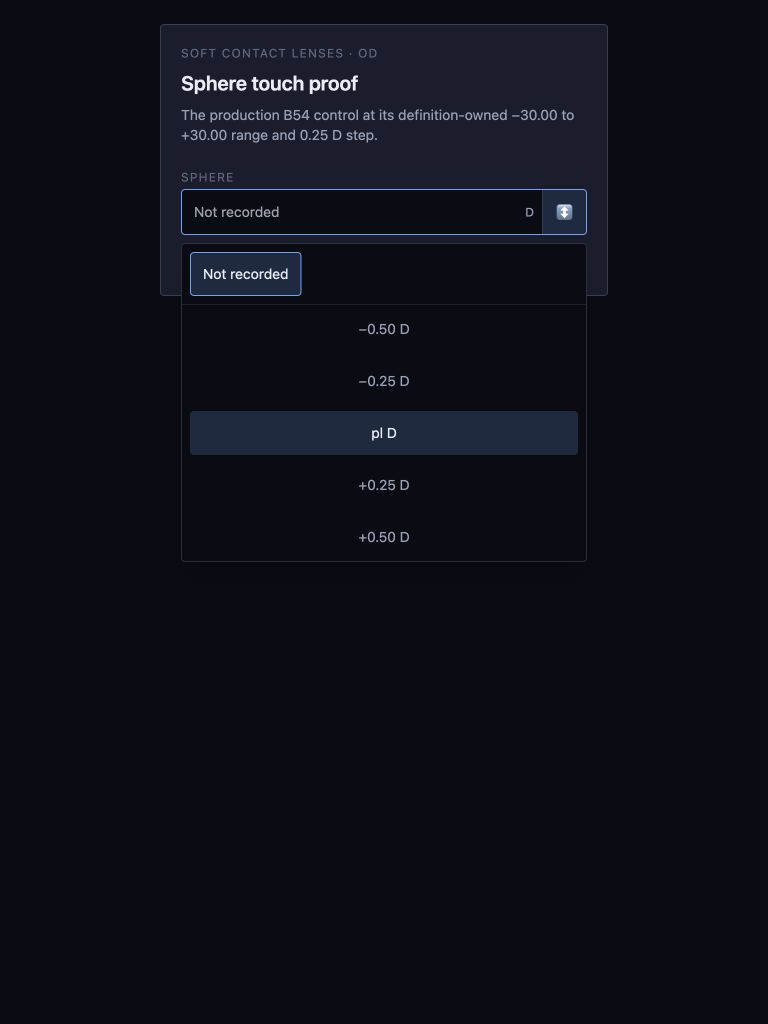
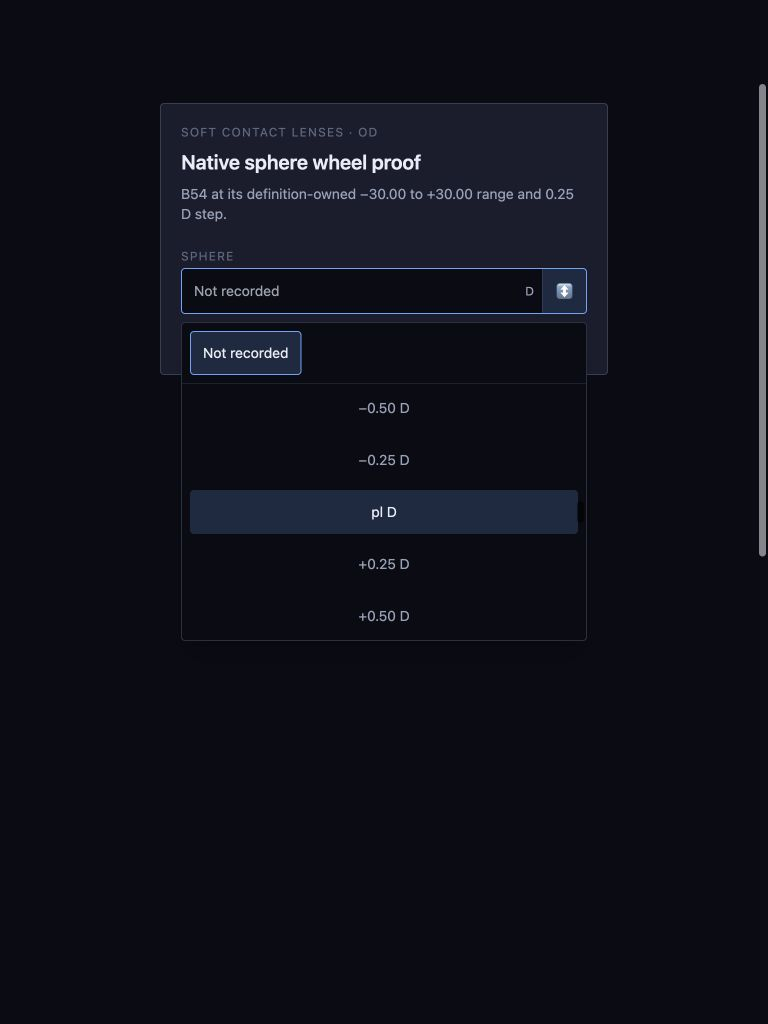
Use native OdosWheel scroll snap

Changed region(s): [[0.1875, 0.0, 0.8125, 0.5625], [0.9688, 0.0625, 1.0, 0.5625], [0.4688, 0.5938, 0.5312, 0.625]]

diff --git a/ui/src/components/inputs/OdosWheel.tsx b/ui/src/components/inputs/OdosWheel.tsx
@@ -21,14 +21,7 @@ export interface OdosWheelProps {
   disabled?: boolean;
 }
 
-interface DragState {
-  pointerId: number;
-  startY: number;
-  previousY: number;
-  previousTime: number;
-  velocity: number;
-  moved: boolean;
-}
+const SCROLL_SETTLE_DELAY_MS = 150;
 
 export function OdosWheel({
   value,
@@ -57,8 +50,7 @@ export function OdosWheel({
   const inputRef = useRef<HTMLInputElement>(null);
   const listRef = useRef<HTMLDivElement>(null);
   const optionRefs = useRef<Array<HTMLButtonElement | null>>([]);
-  const drag = useRef<DragState>();
-  const suppressClick = useRef(false);
+  const openingScrollTopRef = useRef<number>();
   const listboxId = useId();
   editingRef.current = editing;
   formatRef.current = format;
@@ -71,6 +63,7 @@ export function OdosWheel({
     if (!open || centerIndex < 0) return;
     const frame = requestAnimationFrame(() => {
       optionRefs.current[centerIndex]?.scrollIntoView({ block: "center" });
+      openingScrollTopRef.current = listRef.current?.scrollTop;
     });
     return () => cancelAnimationFrame(frame);
   }, [centerIndex, open]);
@@ -116,6 +109,48 @@ export function OdosWheel({
     if (normalized !== value) onChange(normalized);
   }, [format, max, min, onChange, step, value]);
 
+  const commitScrolledValue = useCallback(() => {
+    const list = listRef.current;
+    if (!list || !values.length) return;
+    const openingScrollTop = openingScrollTopRef.current;
+    openingScrollTopRef.current = undefined;
+    if (openingScrollTop !== undefined && Math.abs(list.scrollTop - openingScrollTop) < 1) return;
+    const listRect = list.getBoundingClientRect();
+    const center = listRect.top + listRect.height / 2;
+    let nearest = 0;
+    let distance = Number.POSITIVE_INFINITY;
+    optionRefs.current.forEach((option, index) => {
+      if (!option) return;
+      const optionRect = option.getBoundingClientRect();
+      const optionCenter = optionRect.top + optionRect.height / 2;
+      const nextDistance = Math.abs(optionCenter - center);
+      if (nextDistance < distance) {
+        nearest = index;
+        distance = nextDistance;
+      }
+    });
+    changeBy(values[nearest]);
+  }, [changeBy, values]);
+
+  useEffect(() => {
+    const list = listRef.current;
+    if (!list) return;
+    if (Reflect.has(list, "onscrollend")) {
+      list.addEventListener("scrollend", commitScrolledValue);
+      return () => list.removeEventListener("scrollend", commitScrolledValue);
+    }
+    let settleTimer: ReturnType<typeof setTimeout> | undefined;
+    const handleScroll = () => {
+      clearTimeout(settleTimer);
+      settleTimer = setTimeout(commitScrolledValue, SCROLL_SETTLE_DELAY_MS);
+    };
+    list.addEventListener("scroll", handleScroll, { passive: true });
+    return () => {
+      clearTimeout(settleTimer);
+      list.removeEventListener("scroll", handleScroll);
+    };
+  }, [commitScrolledValue]);
+
   useEffect(() => {
     const input = inputRef.current;
     if (!input) return;
@@ -153,25 +188,6 @@ export function OdosWheel({
       setEditing(false);
       setOpen(false);
     }
-  }
-
-  function snapFromScroll(projectedScrollTop?: number) {
-    const list = listRef.current;
-    if (!list || !values.length) return;
-    const center = (projectedScrollTop ?? list.scrollTop) + list.clientHeight / 2;
-    let nearest = 0;
-    let distance = Number.POSITIVE_INFINITY;
-    optionRefs.current.forEach((option, index) => {
-      if (!option) return;
-      const optionCenter = option.offsetTop + option.offsetHeight / 2;
-      const nextDistance = Math.abs(optionCenter - center);
-      if (nextDistance < distance) {
-        nearest = index;
-        distance = nextDistance;
-      }
-    });
-    optionRefs.current[nearest]?.scrollIntoView({ block: "center", behavior: "smooth" });
-    changeBy(values[nearest]);
   }
 
   return (
@@ -245,46 +261,14 @@ export function OdosWheel({
         )}
         <div
           ref={listRef}
-          className="max-h-[min(16rem,calc(100dvh-8rem))] touch-none snap-y snap-mandatory space-y-2 overflow-y-auto p-2"
-          onPointerDown={(event) => {
-            if (disabled) return;
-            event.currentTarget.setPointerCapture(event.pointerId);
-            drag.current = {
-              pointerId: event.pointerId,
-              startY: event.clientY,
-              previousY: event.clientY,
-              previousTime: event.timeStamp,
-              velocity: 0,
-              moved: false,
-            };
-          }}
-          onPointerMove={(event) => {
-            const current = drag.current;
-            if (!current || current.pointerId !== event.pointerId) return;
-            const elapsed = Math.max(1, event.timeStamp - current.previousTime);
-            const distance = current.previousY - event.clientY;
-            if (Math.abs(current.startY - event.clientY) >= 4) current.moved = true;
-            event.currentTarget.scrollTop += distance;
-            current.velocity = distance / elapsed;
-            current.previousY = event.clientY;
-            current.previousTime = event.timeStamp;
-          }}
-          onPointerUp={(event) => {
-            const current = drag.current;
-            if (!current || current.pointerId !== event.pointerId) return;
-            event.currentTarget.releasePointerCapture(event.pointerId);
-            if (current.moved) {
+          className="max-h-[min(16rem,calc(100dvh-8rem))] snap-y snap-mandatory space-y-2 overflow-y-auto overscroll-contain p-2"
+          onWheel={(event) => {
+            const list = event.currentTarget;
+            const atStart = list.scrollTop <= 0;
+            const atEnd = list.scrollTop + list.clientHeight >= list.scrollHeight - 1;
+            if ((event.deltaY < 0 && atStart) || (event.deltaY > 0 && atEnd)) {
               event.preventDefault();
-              suppressClick.current = true;
-              snapFromScroll(event.currentTarget.scrollTop + current.velocity * 120);
-              setTimeout(() => {
-                suppressClick.current = false;
-              }, 0);
             }
-            drag.current = undefined;
-          }}
-          onPointerCancel={() => {
-            drag.current = undefined;
           }}
         >
           {values.map((option, index) => (
@@ -296,10 +280,7 @@ export function OdosWheel({
               aria-selected={option === value}
               data-center={index === centerIndex ? "true" : undefined}
               disabled={disabled}
-              onClick={() => {
-                if (suppressClick.current) return;
-                select(option);
-              }}
+              onClick={() => select(option)}
               className={[
                 "block min-h-11 w-full snap-center rounded px-3 py-2 text-center text-sm outline-none",
                 option === value

diff --git a/ui/tests/odosWheel.test.tsx b/ui/tests/odosWheel.test.tsx
@@ -52,6 +52,12 @@ test("OdosWheel opens centered on centerOn rather than the first row", () => {
                 removeEventListener: () => undefined,
               };
             }
+            if (typeof element.props.className === "string" && element.props.className.includes("overflow-y-auto")) {
+              return {
+                addEventListener: () => undefined,
+                removeEventListener: () => undefined,
+              };
+            }
             return element.props["data-center"] === "true"
               ? { scrollIntoView: () => { centered = true; } }
               : {};
@@ -70,6 +76,154 @@ test("OdosWheel opens centered on centerOn rather than the first row", () => {
     globalThis.cancelAnimationFrame = originalCancelAnimationFrame;
     Object.defineProperty(globalThis, "document", { configurable: true, value: originalDocument });
   }
+});
+
+test("OdosWheel uses native scroll snap without pointer physics", () => {
+  let renderer: ReturnType<typeof create>;
+  act(() => {
+    renderer = create(
+      <OdosWheel
+        value={0}
+        centerOn={0}
+        min={-1}
+        max={1}
+        step={0.25}
+        format={String}
+        onChange={() => undefined}
+        ariaLabel="Power"
+      />,
+    );
+  });
+  const list = renderer.root.find((node) =>
+    typeof node.props.className === "string" && node.props.className.includes("overflow-y-auto"));
+  assert.match(list.props.className, /snap-y/);
+  assert.match(list.props.className, /snap-mandatory/);
+  assert.match(list.props.className, /overscroll-contain/);
+  assert.doesNotMatch(list.props.className, /touch-none/);
+  assert.equal(list.props.onPointerDown, undefined);
+  assert.equal(list.props.onPointerMove, undefined);
+  assert.equal(list.props.onPointerUp, undefined);
+  assert.equal(list.props.onPointerCancel, undefined);
+  let prevented = false;
+  list.props.onWheel({
+    currentTarget: { clientHeight: 100, scrollHeight: 500, scrollTop: 400 },
+    deltaY: 1,
+    preventDefault: () => { prevented = true; },
+  });
+  assert.equal(prevented, true);
+  act(() => renderer.unmount());
+});
+
+test("OdosWheel commits the centered option on native scrollend", () => {
+  let changed: number | undefined;
+  let scrollEnd: (() => void) | undefined;
+  let optionIndex = 0;
+  const list = {
+    clientHeight: 100,
+    onscrollend: null,
+    scrollTop: 232,
+    getBoundingClientRect: () => ({ height: 100, top: 0 }),
+    addEventListener: (type: string, listener: () => void) => {
+      if (type === "scrollend") scrollEnd = listener;
+    },
+    removeEventListener: () => undefined,
+  };
+  let renderer: ReturnType<typeof create>;
+  act(() => {
+    renderer = create(
+      <OdosWheel
+        value={0}
+        centerOn={0}
+        min={-1}
+        max={1}
+        step={0.25}
+        format={String}
+        onChange={(value) => { changed = value; }}
+        ariaLabel="Power"
+      />,
+      {
+        createNodeMock: (element) => {
+          if (element.type === "input") {
+            return {
+              addEventListener: () => undefined,
+              removeEventListener: () => undefined,
+            };
+          }
+          if (typeof element.props.className === "string" && element.props.className.includes("overflow-y-auto")) {
+            return list;
+          }
+          if (element.props.role === "option") {
+            const index = optionIndex++;
+            return {
+              getBoundingClientRect: () => ({ height: 44, top: index * 52 - list.scrollTop }),
+            };
+          }
+          return {};
+        },
+      },
+    );
+  });
+  assert.ok(scrollEnd);
+  act(() => scrollEnd?.());
+  assert.equal(changed, 0.25);
+  act(() => renderer.unmount());
+});
+
+test("OdosWheel debounces scroll settle when scrollend is unavailable", async () => {
+  let changed: number | undefined;
+  let scroll: (() => void) | undefined;
+  let optionIndex = 0;
+  const list = {
+    clientHeight: 100,
+    scrollTop: 232,
+    getBoundingClientRect: () => ({ height: 100, top: 0 }),
+    addEventListener: (type: string, listener: () => void) => {
+      if (type === "scroll") scroll = listener;
+    },
+    removeEventListener: () => undefined,
+  };
+  let renderer: ReturnType<typeof create>;
+  act(() => {
+    renderer = create(
+      <OdosWheel
+        value={0}
+        centerOn={0}
+        min={-1}
+        max={1}
+        step={0.25}
+        format={String}
+        onChange={(value) => { changed = value; }}
+        ariaLabel="Power"
+      />,
+      {
+        createNodeMock: (element) => {
+          if (element.type === "input") {
+            return {
+              addEventListener: () => undefined,
+              removeEventListener: () => undefined,
+            };
+          }
+          if (typeof element.props.className === "string" && element.props.className.includes("overflow-y-auto")) {
+            return list;
+          }
+          if (element.props.role === "option") {
+            const index = optionIndex++;
+            return {
+              getBoundingClientRect: () => ({ height: 44, top: index * 52 - list.scrollTop }),
+            };
+          }
+          return {};
+        },
+      },
+    );
+  });
+  assert.ok(scroll);
+  await act(async () => {
+    scroll?.();
+    await new Promise((resolve) => setTimeout(resolve, 175));
+  });
+  assert.equal(changed, 0.25);
+  act(() => renderer.unmount());
 });
 
 test("OdosWheel clamps and snaps typed values on blur", () => {
@@ -205,15 +359,26 @@ test("OdosWheel ignores native wheel input while disabled", () => {
         disabled
       />,
       {
-        createNodeMock: (element) => element.type === "input" ? {
-          addEventListener: (
-            type: string,
-            handler: (event: { deltaY: number; preventDefault: () => void }) => void,
-          ) => {
-            if (type === "wheel") wheelHandler = handler;
-          },
-          removeEventListener: () => undefined,
-        } : {},
+        createNodeMock: (element) => {
+          if (element.type === "input") {
+            return {
+              addEventListener: (
+                type: string,
+                handler: (event: { deltaY: number; preventDefault: () => void }) => void,
+              ) => {
+                if (type === "wheel") wheelHandler = handler;
+              },
+              removeEventListener: () => undefined,
+            };
+          }
+          if (typeof element.props.className === "string" && element.props.className.includes("overflow-y-auto")) {
+            return {
+              addEventListener: () => undefined,
+              removeEventListener: () => undefined,
+            };
+          }
+          return {};
+        },
       },
     );
   });
